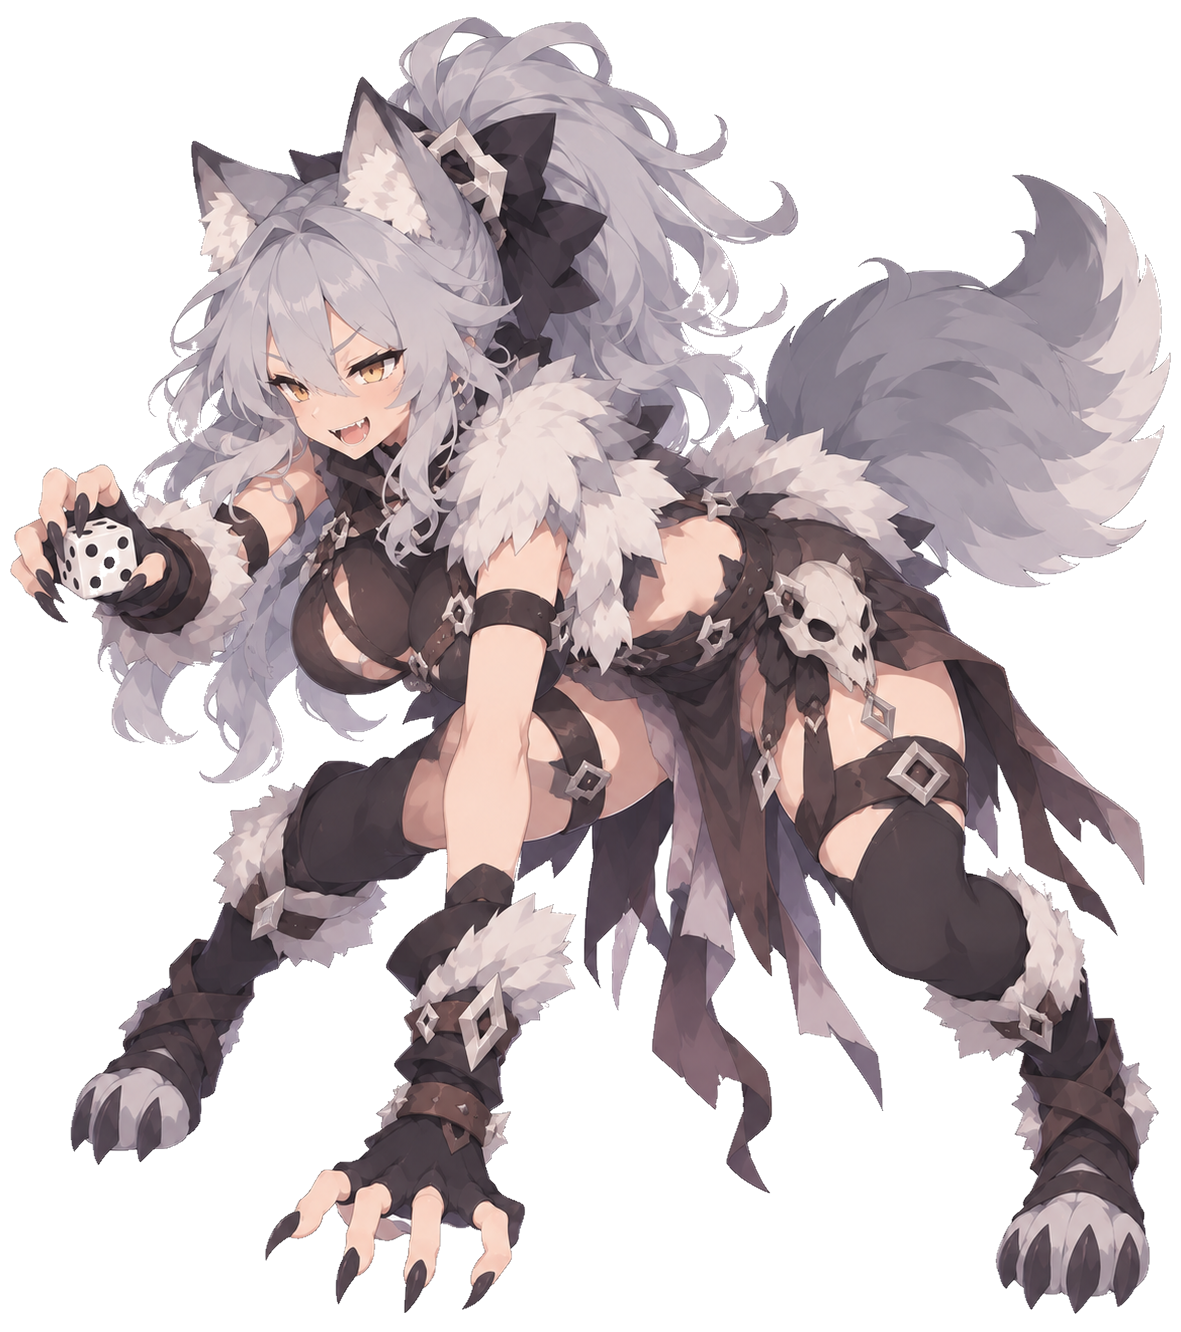
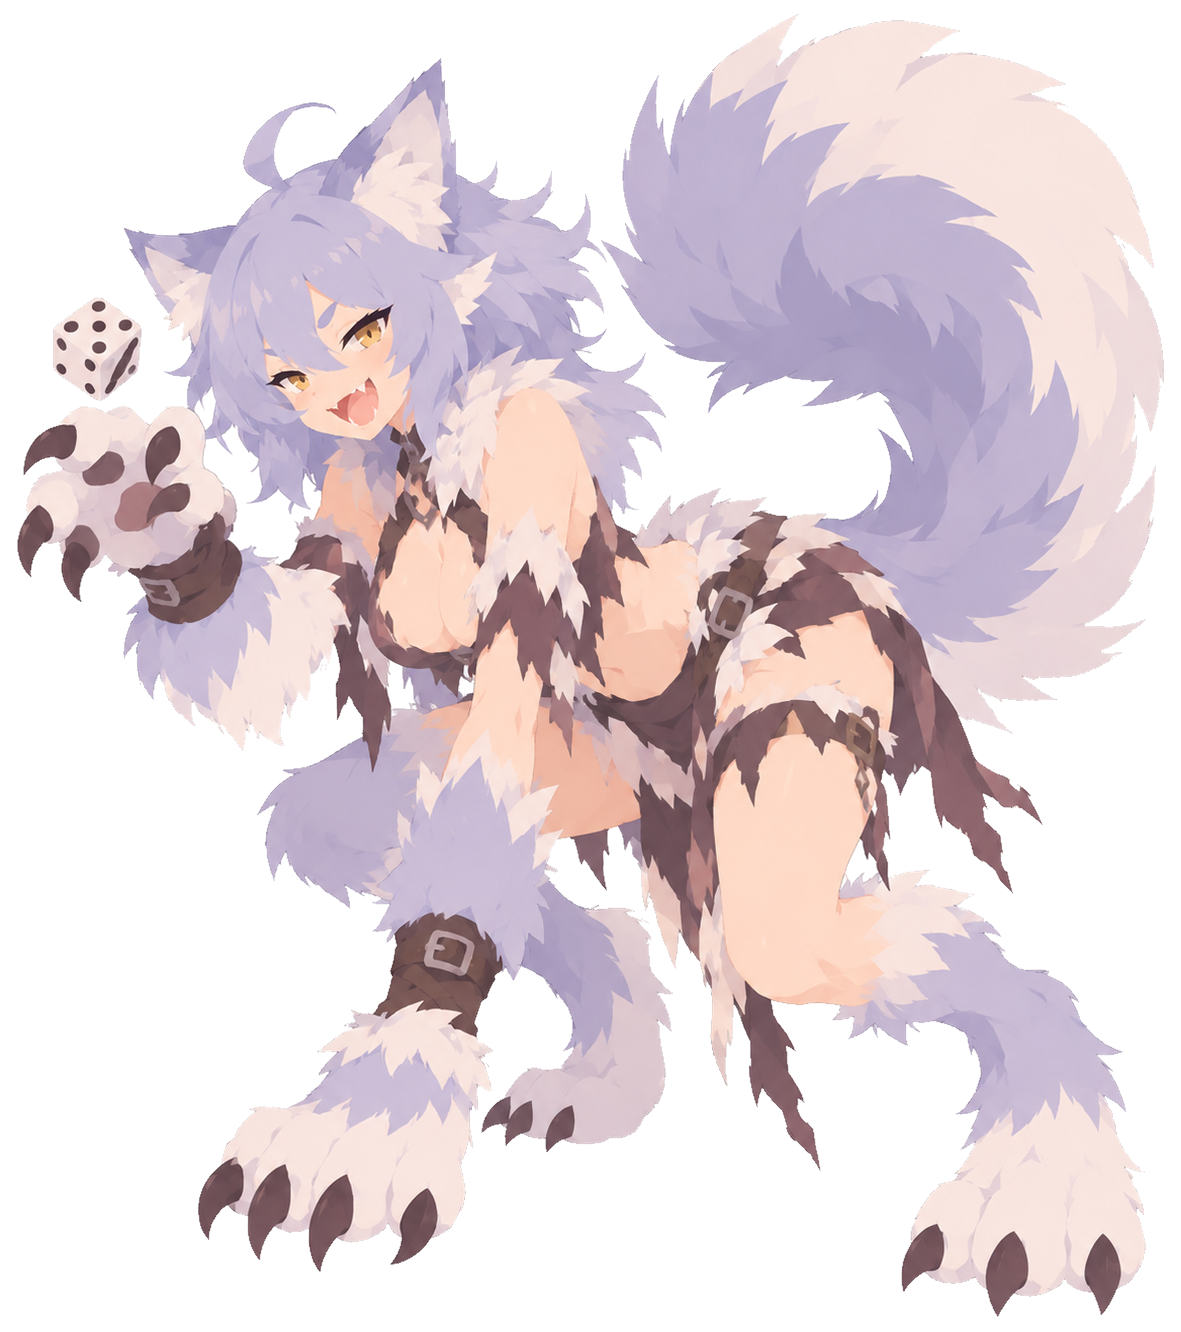
feat(art): 늑대·안개 화풍 재작업 확정 + 경비병·오크·구울·스킬 아이콘 피드백 기록

diff --git a/docs/art/ART_RESOURCES.md b/docs/art/ART_RESOURCES.md
@@ -690,9 +690,9 @@ Work는 `resources/ui/` 이미지가 있으면 StyleBoxTexture로 쓰고, 없으
 | 4 | 타락한 기사단장 | (8차) ✅ b8 시안 OK(보스 일괄 나열 컨펌 때 적용). (7차) 디자인 유지, 견습 모험가와 같은 화풍으로 더 단순하게. (6차) 검 디자인 다시(멋진 대검), 망토는 찢기지 않게. (5차) 방패 제거, 마력 폭주로 몸에 붉은 균열 추가(허벅지 상처처럼). (4차) 다시 그림 — 머리가 눌려 납작해 보임, 무기 디자인 재고. 옷은 찢기지 않고 정돈되게, 노출도는 유지하되 부분 갑옷으로 단단한 느낌. (3차) **검 꽂은 자세(시안 2) 채택** — 방패를 검 앞쪽에 기대 세움(검이 가려짐). (2차) 헤어 단발. 포즈 ③(검을 어깨에 걸침) 킵 — 꺾인 검 수정. 다른 자세도 추가 탐색 | 시안 3종 제출(③ 곧은 검 / 방패 뒤 검 짚기 / 방패 돌진, `qa_out/r3/fc2.png`) — 선택 대기 |
 | 5 | 공허의 눈 | (14차, 사용자 동의) b13 상처 분석: 눈이 X 위에 스티커처럼 얹힘·가슴골 중앙이라 곡면 무시하고 떠 보임·금 간 듯한 테두리와 보랏빛 → 흉골(쇄골 아래)로 위치 이동, X 틈 안쪽은 어두운 청록(심연), 눈은 틈 안에 박혀 가장자리가 눈꺼풀처럼 감쌈, 매끈하게 아문 피부색 흉터. (13차) b12는 주사위 든 세 번째 손이 재발 → b11 기준. 상처의 붉은 핏기 제거, 피부에 자연스럽게 붙게(가슴 사이에 떠 보임). 꼰 다리 중 깔린 다리의 발은 정면을 향하게. + 주사위 5 중복, 촉수 눈. (12차) 주사위에 5가 두 면 → 수정, 촉수의 눈 모양을 더 눈답게. (11차) 꼰 다리 오금·허벅지 여전히 어색(접힌 각도에 비해 오금 선 과다) → 각 다리의 위치·크기·경계를 고려한 인체 묘사. 가슴 상처를 더 벌리고 그 안에 눈이 깃들게. (10차) 가슴팍 상처·눈 표현이 어색해짐 → 이전 OK판(b6) 기준으로 되돌림 + (9차 오금·허벅지 교정과 한 번에 처리). (9차) 팔 수정 OK — 꼰 다리의 오금·허벅지 표현만 교정, 나머지 수정 금지. (8차) 팔이 3개 → 턱 괸 팔은 유지, 주사위 든 팔 삭제하고 머리끝 촉수가 주사위를 띄움. (7차) 발이 여전히 검게 나옴 → 원인: 흰 배경 제거가 창백한 발등 피부까지 지움(투명 → 게임 배경이 비침). 검은 배경으로 재생성. (6차) 촉수 머리 "딱 좋음", 다른 건 유지 — 문어 촉수 빨판을 눈처럼, 검게 나온 발가락 수정. (5차) 복잡도 감소 OK — 머리 끝이 길게 뻗어 촉수처럼. (4차) 의자·몸·헤어 셰이프가 섞여 불분명 → 복잡도 낮춰 구분되게. 맨발 대신 고급스러운 신발. (3차) 촉수 어둡게 한 수정본 기준, 골반·다리 방향을 돌아간 허리에 맞춰 뒤틀림 해소. (2차) 포즈 ③ 채택. 뒤 촉수 색을 어둡게 해서 캐릭터 실루엣이 드러나게(조형 단순화) | 수정본 제출(`qa_out/r3/ve2.png`) — 확인 대기 |
 | 6 | 점액 군주 | (2차) 화풍 정리본이 탁해져 점액 느낌이 없음 → 명암(광택) 더 넣고 몸의 다이아 장식 수 줄이기. **포즈 ③(엎드려 녹아 퍼짐) 채택**(2026-10-26) → 견습 모험가 화풍으로 재생성. 보스 최종 확정은 모든 보스 피드백이 끝난 뒤 한 번에 나열해서 컨펌 | 진행 중 |
-| 7 | 일반 18종 + 암흑 늑대 | (9차) 늑대: 옷을 찢기고 헤진 느낌으로, 동물 손 교정, 늑대 포즈로. 경비병: 리본 제거, 짧은 머리. 오크: 붉은 전사 문신 많이. 안개: 표정·포즈 OK, 견습 모험가 화풍에만 맞추기. 구울: 이전처럼 침 흘리는 표정, 견습 모험가 화풍에 맞추기. (8차) ✅ **풋내기 용병(bandit)·좀비 확정·적용**. 늑대: 하의 길이 많이 줄이고 늑대 털로 덮이게. 경비병: 은발·창끝이 배경 제거로 지워짐 → 검은 배경 재생성. 오크: 살 조금 빼기. 안개: 실눈(눈 감은 듯한) 캐릭터, 유령과 다른 포즈. 구울: 뒤틀린 체형 바로잡기. **창백한 피부·은발·흰 옷은 무조건 검은 배경으로 생성**(흰 배경 제거가 같이 지움). (7차) ✅ **고블린·방패 고블린 확정·적용**(2026-10-26). 좀비: 의상은 6차와 이전 버전의 중간(구울 쪽으로 너무 감), 체형은 6차 유지, 아호게 제거. 구울: 6차 유지하되 가슴 크기·모양만 더 부어서 퍼진 모습으로. (6차) 고블린: 탐욕스러운 웃음(혀 X), 옷 면적 줄임, 후드 유지. 방패 고블린: 머리카락이 냄비 밖으로 안 나오게, 털 부츠, 겁쟁이 표정. 좀비: 이전(1차 시범) 버전의 넋 놓은 표정·볼륨 체형·창백한 피부로 복귀, 옷은 구울 수의가 썩기 전 단계처럼 바래고 옅게. 구울: 좀비와 다른 동작, 가스로 부은 굵은 허벅지. 늑대: 인형 옷 느낌 X — 맨살과 체모를 균형 있게. 풋내기 용병: 다친 전사 X → 탐욕스러운 용병 똘마니로 재디자인. 경비병: 머리가 검게 나옴, 여전히 착해 보임 → 완고·어둡고 차갑게, 색 변경 OK. 오크: 머리 뼈장식 제거, 살찐 **근육질**. 안개: 녹색 구름 인간 X → 더 안개답게. 화풍이 다시 세밀해지는 중 → 견습 모험가에 재동기화. (5차, 2026-10-26) 산적 → **풋내기 용병**(불량한 조직 똘마니, 짝짝이 눈, 흉터·상처, 두건 정리, 팔 꺾임 수정). 경비병은 완고·어둡고 차가운 기사. 오크는 원시인 헤어, 살찐 근육질, 단순 무식, 고블린과 다른 복장. 유령 OK, 안개는 유령과 셰이프·색감·복장 구분. **해골 전사·해골 궁수·망령 병사·해골 기사 제거**, 유령·그림자·안개·망령은 언데드형으로 재분류, 부정형은 새 컨셉(사용자 결정 대기) — Work INBOX 2026-10-26 전달. (4차) 고블린 3종 피부 OK — 표정이 다 똑같음 → 표정·복장을 개성에 맞게 다르게. 좀비 OK — 헤어만 변경(늑대와 똑같아 보임). 구울은 너무 구체적 → 원본처럼 단순하게, 헤어는 좀비와 다르게, 앞머리로 눈을 가림. 늑대 OK — 하반신 털이 복부까지 더 덮이게(상·하반신이 딱 나뉘지 않게). **주사위 눈금 오류 주의**(마주보는 면 합 7, 눈 배치 정확히). (3차, 시범 4종 피드백) 좀비·구울 방향 OK. 고블린 계열은 초록 피부의 확실한 아인, 탐욕적·야만적. 구울은 의상을 좀비와 다르게, 침 흘리고 지저분하게, 가스가 차서 더 볼륨 있게. 늑대는 하체 전부 짐승 형태, 털이 복부 근처까지. (재재작업) 화풍 기준을 **견습 모험가**로 — 지금은 너무 세밀함. 얼굴 개성 부여, 언데드 헤어 다양화(꼬인 긴 머리만 X), 좀비 얼굴이 검게 나오는 문제, 구울은 냄새나는 표정+연기 강조, 짐승형은 해당 짐승 특징이 더 드러나게(몬스터 무스메 느낌). 1차 재작업(2026-10-21)은 `_reference/monsters/<id>/full_before_restyle.png`가 원본 | 대기 |
+| 7 | 일반 18종 + 암흑 늑대 | (10차, 2026-10-28) ✅ 늑대·안개 확정. 경비병 OK — 나머지 유지하고 **방패에 주사위 문양만** 추가(부분 합성). 오크 — 얼굴 살 빼기. 구울 — 사슬 든 왼팔(그림 오른쪽)의 팔 길이·꺾이는 위치 교정, 디자인·포즈·표정 변경 금지(부분 합성). (9차) 늑대: 옷을 찢기고 헤진 느낌으로, 동물 손 교정, 늑대 포즈로. 경비병: 리본 제거, 짧은 머리. 오크: 붉은 전사 문신 많이. 안개: 표정·포즈 OK, 견습 모험가 화풍에만 맞추기. 구울: 이전처럼 침 흘리는 표정, 견습 모험가 화풍에 맞추기. (8차) ✅ **풋내기 용병(bandit)·좀비 확정·적용**. 늑대: 하의 길이 많이 줄이고 늑대 털로 덮이게. 경비병: 은발·창끝이 배경 제거로 지워짐 → 검은 배경 재생성. 오크: 살 조금 빼기. 안개: 실눈(눈 감은 듯한) 캐릭터, 유령과 다른 포즈. 구울: 뒤틀린 체형 바로잡기. **창백한 피부·은발·흰 옷은 무조건 검은 배경으로 생성**(흰 배경 제거가 같이 지움). (7차) ✅ **고블린·방패 고블린 확정·적용**(2026-10-26). 좀비: 의상은 6차와 이전 버전의 중간(구울 쪽으로 너무 감), 체형은 6차 유지, 아호게 제거. 구울: 6차 유지하되 가슴 크기·모양만 더 부어서 퍼진 모습으로. (6차) 고블린: 탐욕스러운 웃음(혀 X), 옷 면적 줄임, 후드 유지. 방패 고블린: 머리카락이 냄비 밖으로 안 나오게, 털 부츠, 겁쟁이 표정. 좀비: 이전(1차 시범) 버전의 넋 놓은 표정·볼륨 체형·창백한 피부로 복귀, 옷은 구울 수의가 썩기 전 단계처럼 바래고 옅게. 구울: 좀비와 다른 동작, 가스로 부은 굵은 허벅지. 늑대: 인형 옷 느낌 X — 맨살과 체모를 균형 있게. 풋내기 용병: 다친 전사 X → 탐욕스러운 용병 똘마니로 재디자인. 경비병: 머리가 검게 나옴, 여전히 착해 보임 → 완고·어둡고 차갑게, 색 변경 OK. 오크: 머리 뼈장식 제거, 살찐 **근육질**. 안개: 녹색 구름 인간 X → 더 안개답게. 화풍이 다시 세밀해지는 중 → 견습 모험가에 재동기화. (5차, 2026-10-26) 산적 → **풋내기 용병**(불량한 조직 똘마니, 짝짝이 눈, 흉터·상처, 두건 정리, 팔 꺾임 수정). 경비병은 완고·어둡고 차가운 기사. 오크는 원시인 헤어, 살찐 근육질, 단순 무식, 고블린과 다른 복장. 유령 OK, 안개는 유령과 셰이프·색감·복장 구분. **해골 전사·해골 궁수·망령 병사·해골 기사 제거**, 유령·그림자·안개·망령은 언데드형으로 재분류, 부정형은 새 컨셉(사용자 결정 대기) — Work INBOX 2026-10-26 전달. (4차) 고블린 3종 피부 OK — 표정이 다 똑같음 → 표정·복장을 개성에 맞게 다르게. 좀비 OK — 헤어만 변경(늑대와 똑같아 보임). 구울은 너무 구체적 → 원본처럼 단순하게, 헤어는 좀비와 다르게, 앞머리로 눈을 가림. 늑대 OK — 하반신 털이 복부까지 더 덮이게(상·하반신이 딱 나뉘지 않게). **주사위 눈금 오류 주의**(마주보는 면 합 7, 눈 배치 정확히). (3차, 시범 4종 피드백) 좀비·구울 방향 OK. 고블린 계열은 초록 피부의 확실한 아인, 탐욕적·야만적. 구울은 의상을 좀비와 다르게, 침 흘리고 지저분하게, 가스가 차서 더 볼륨 있게. 늑대는 하체 전부 짐승 형태, 털이 복부 근처까지. (재재작업) 화풍 기준을 **견습 모험가**로 — 지금은 너무 세밀함. 얼굴 개성 부여, 언데드 헤어 다양화(꼬인 긴 머리만 X), 좀비 얼굴이 검게 나오는 문제, 구울은 냄새나는 표정+연기 강조, 짐승형은 해당 짐승 특징이 더 드러나게(몬스터 무스메 느낌). 1차 재작업(2026-10-21)은 `_reference/monsters/<id>/full_before_restyle.png`가 원본 | 대기 |
 | 8 | 보스 6종 표정 세트 | 포즈·헤어 확정 후 | 대기 |
-| 9 | 스킬 아이콘 61종 리디자인 | **A(플랫 미니멀) 채택**(2026-10-26) — A 기준으로 색은 최대한 덜 쓰고 조형 단순화, **주사위 모양 정확히**(A 시안 왼쪽 위 빨간 주사위가 깨져 있었음). 샘플 4종 수정 후 61종 진행. (2차 샘플 피드백) 우하단(대포)처럼 **외곽선을 제한적으로** 쓰는 방식이 좋음 — 흰색 부분도 해당 아이콘 색상으로 맞춰 색이 뜨지 않게. (3차) 흰색을 아예 쓰지 않고 표현. (4차) 색감을 더 연하게, 대포 디자인이 난해해짐 → 원래 대포로. ✅ (5차, 2026-10-26) **화풍 확정**(`qa_out/skill_style_drafts/skill_style_A5.png`) — 대포는 대포알과 포구가 명확히 구분되게 | 61종 제작 |
+| 9 | 스킬 아이콘 61종 리디자인 | **A(플랫 미니멀) 채택**(2026-10-26) — A 기준으로 색은 최대한 덜 쓰고 조형 단순화, **주사위 모양 정확히**(A 시안 왼쪽 위 빨간 주사위가 깨져 있었음). 샘플 4종 수정 후 61종 진행. (2차 샘플 피드백) 우하단(대포)처럼 **외곽선을 제한적으로** 쓰는 방식이 좋음 — 흰색 부분도 해당 아이콘 색상으로 맞춰 색이 뜨지 않게. (3차) 흰색을 아예 쓰지 않고 표현. (4차) 색감을 더 연하게, 대포 디자인이 난해해짐 → 원래 대포로. ✅ (5차, 2026-10-26) **화풍 확정**(`qa_out/skill_style_drafts/skill_style_A5.png`) — 대포는 대포알과 포구가 명확히 구분되게 | 61종 제작 — **(2026-10-28) 보류: 캐릭터(몬스터) 디자인 완료 후 진행, 현재 색이 진함 → 완성 아님** |
 | 10 | 이벤트 일러스트 16종 `resources/events/<id>.png` | 2026-10-21 Work 발주(96bf013, `docs/STATUS.md` "스토리/특수 이벤트 일러스트 발주 목록"). 캐릭터 원화 그림체, 가장자리 페이드로 화면 좌하단에 표시. **비율: 특수 이벤트 8종(판정·전용) 7:6 = 슬롯 420×360 / 스토리 8종 3:2 = 슬롯 420×290** (Work 2026-10-21 확인). 스토리 8 + 판정 4 + 캐릭터 전용 4(해적·곡예사·광전사·수호자) | 대기 |
 | 11 | **재이슈 묶음 (2026-10-27 사용자: 기사단장 빼고 전부 다시 이슈업)** | (2026-10-28 2차) 점액 군주: 무기 제거, 손을 위로 더 뻗음. 광견: 늑대처럼 두 발로 서고, 사슬은 끊어지지 않고 목 앞에서 수평으로 당겨 끊으려는 모습 + 입마개 안. 독거미: 옷 경계 없이 피부와 키틴이 그라데이션, 인간 다리 없음 — 아라크네 신체 구조(허리 위 인간, 허리에서 거미 두흉부·다리 8개·배로 이어짐, 팔은 외골격·발톱), 화풍은 우리 게임 것 유지, Claude가 구조가 뒤틀리지 않았는지 분석해서 확인. (2026-10-28 추가) 광란의 마수는 늑대와 비슷한 동물·인간 혼합으로, 더 난폭·과격한 성격. **멧돼지 → 산양, id `boar` → `mountain_goat`**(돼지코 제거, 염소 컨셉, 저돌적 돌진 유지). 그림자는 안개처럼 뿌옇게, 옷은 실크 재질, 어두운 색 유지. (2026-10-28) 점액 군주 포즈는 바꾸지 않음(포즈 ③ 유지), 광견 재요청(서서 사슬을 당기는 포즈), 독거미는 거꾸로 매달려 깨진 체형 수정. (추가 지시) 멧돼지·독거미는 최신 늑대 시안을 예시로 동물+인간 혼합, 표정·포즈는 각 짐승 성격에 맞게 다르게. 그림자는 유령·안개 시안을 예시로 풍을 맞추되 표정·포즈는 다르게. ① 광란의 마수 — r3 시안(사자갈기·엎드려 덮치기) 피드백 대기 → 다시 제출. ② 점액 군주 — 아무것으로도 덮지 않음, 컨셉(몸 전체가 반투명 점액, 녹아내림)을 다시 설명해 원래 시안처럼 이끌어냄, 광택·명암, 다이아 장식 감소. ③ 아머 고블린 확정 여부. ④ 광견·멧돼지·독거미·그림자·암흑 늑대 — 견습 모험가 화풍 + 짐승 몬무스(정책/한도로 멈춘 것) 재요청. ⑤ 늑대·경비병·오크·안개·구울 최신 수정본 확인. ⑥ 유령 적용. ⑦ 미착수: 슬라임·독 슬라임, 정예 고블린 족장·젤라틴 큐브·망령·오크 투사·리치 견습생·다크 나이트(일반 다크 나이트는 원화 없음) — 견습 모험가 화풍 재작업 | 진행 중 |
 | 12 | **같은 종족 피부 톤 맞추기** (2026-10-27 사용자 지시) | **모든 몬스터 디자인 확정 후** 진행. 같은 종족(예: 고블린 계열 초록, 공허의 눈·심연 계열 창백한 푸른빛, 언데드 계열 등)끼리 피부 톤을 통일. **외형은 절대 바뀌면 안 되고 피부 톤만** 바꿈 → GPT 재생성 금지, 확정 원화에서 피부 영역만 색 보정(Godot 색상 치환/마스크 방식) | 대기 |
@@ -771,6 +771,7 @@ Work는 `resources/ui/` 이미지가 있으면 StyleBoxTexture로 쓰고, 없으
 | 2026-10-26 | **고블린·방패 고블린 화풍 재작업 확정** (대기열 3-10 #7, 사용자 확인): 견습 모험가 기준 단순 화풍, 초록 피부 고블린 아인. 고블린 = 탐욕스러운 도둑(후드, 옷 면적 축소), 방패 고블린 = 겁쟁이 수집꾼(냄비 투구, 털 부츠). 원본 `_reference/monsters/<id>/mo_<id>_full_r3.png`, 이전본 `full_before_r3.png` | `resources/monsters/{goblin,shield_goblin}/full.png` (자동 적용) | `qa_out/r3/units_r6.png` |
 | 2026-10-26 | **풋내기 용병(구 산적)·좀비 화풍 재작업 확정** (대기열 3-10 #7, 사용자 확인): 풋내기 용병 = 탐욕스러운 용병 똘마니, 좀비 = 넋 놓은 표정·볼륨 체형·바랜 누더기+붕대·양갈래. 원본 `_reference/monsters/<id>/mo_<id>_full_r3.png`, 이전본 `full_before_r3.png` | `resources/monsters/{bandit,zombie}/full.png` (자동 적용) | `qa_out/r3/units_r6b.png`, `units_r7.png` |
 | 2026-10-27 | **심연의 불(will_o_wisp) 최종 확정** (신규 부정형 3-11, 사용자 확인): 푸른 불꽃 몸, 불꽃 속 눈·이빨 입, 끌어안으려는 포즈, 표정 ① 몽롱한 유혹. 원본 `_reference/monsters/will_o_wisp/mo_will_o_wisp_full_final.png` | `resources/monsters/will_o_wisp/full.png` (자동 적용) | `qa_out/r3/wisp_expr.png` |
+| 2026-10-28 | **늑대·안개 화풍 재작업 확정** (대기열 3-10 #7, 사용자 확인): 늑대 = 체모가 자연스럽게 자란 늑대 몬무스(찢긴 옷·늑대 포즈), 안개 = 실눈으로 안개 구름 위에 누워 조는 회백색 안개 정령. 원본 `_reference/monsters/<id>/mo_<id>_full_r3.png`, 이전본 `full_before_r3.png` | `resources/monsters/{wolf,mist}/full.png` (자동 적용) | `qa_out/r3/units_r9.png` |
 
 ---
 
